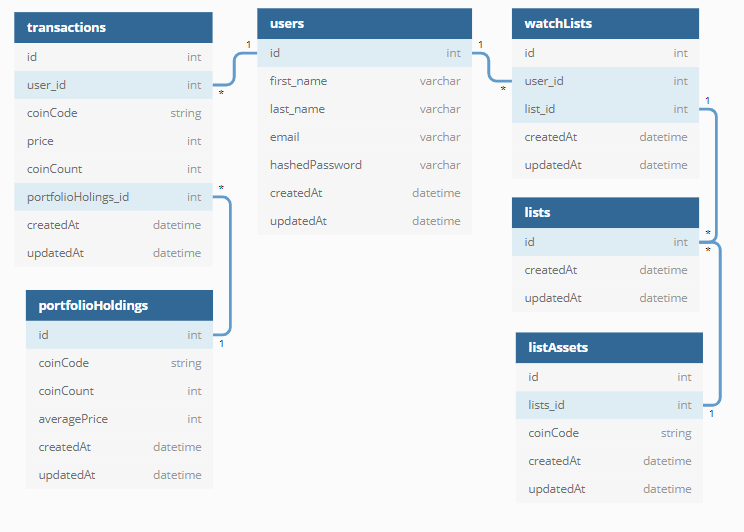
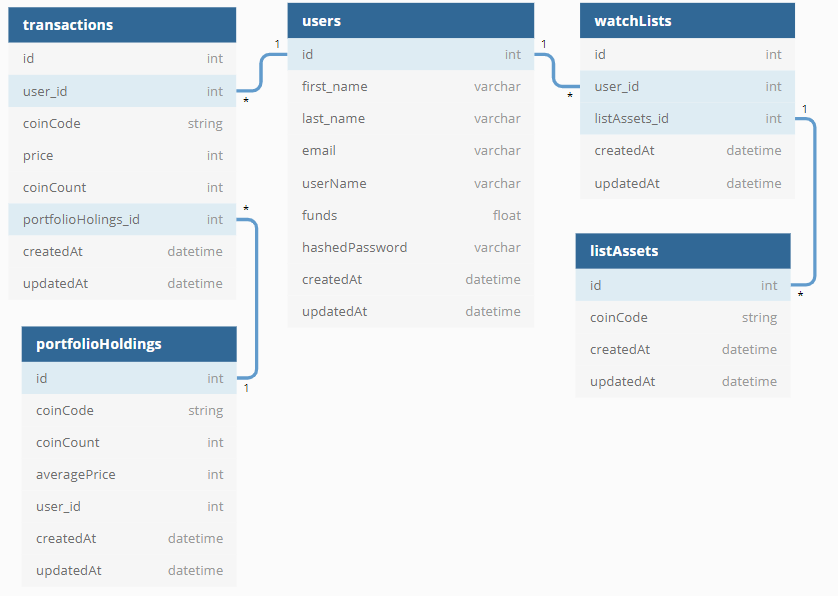
db schema

diff --git a/dbSchema.md b/dbSchema.md
@@ -1,0 +1,62 @@
+# `Users`
+
+| Column Name      | Data Type | Details               | Description           |
+| ---------------- | --------- | --------------------- | --------------------- |
+| `id`             | integer   | not null, primary key | Users unique id       |
+| `first_name`     | string    | not null              | Users first name      |
+| `last_name`      | string    | not null              | Users last name       |
+| `funds`          | float     | not null, default 0.0 | Users available funds |
+| `email`          | string    | not null, unique      | Users email           |
+| `username`       | string    | not null, unique      | Users username        |
+| `hashedPassword` | string    | not null              | Users hashed password |
+| `createdAt`      | datetime  | not null              | timestamp             |
+| `updatedAt`      | datetime  | not null              | timestamp             |
+
+# `WatchLists`
+
+| Column Name     | Data Type | Details               | Description                              |
+| --------------- | --------- | --------------------- | ---------------------------------------- |
+| `id`            | integer   | not null, primary key | Watchlists unique id                     |
+| `user_id`       | integer   | not null, foreign key | User that the watchlist belongs to       |
+| `listAssets_id` | integer   | not null, foreign key | Coin that belongs to the users watchlist |
+| `createdAt`     | datetime  | not null              | timestamp                                |
+| `updatedAt`     | datetime  | not null              | timestamp                                |
+
+# `ListAssets`
+
+| Column Name | Data Type | Details               | Description            |
+| ----------- | --------- | --------------------- | ---------------------- |
+| `id`        | integer   | not null, primary key | ListAssets unique id   |
+| `coinCode`  | string    | not null              | Coin code of the asset |
+| `createdAt` | datetime  | not null              | timestamp              |
+| `updatedAt` | datetime  | not null              | timestamp              |
+
+# `Transactions`
+
+| Column Name            | Data Type | Details               | Description                              |
+| ---------------------- | --------- | --------------------- | ---------------------------------------- |
+| `id`                   | integer   | not null, primary key | Transactions unique id                   |
+| `user_id`              | integer   | not null, foreign key | User that that transaction belongs to    |
+| `coinCode`             | string    | not null              | Coin code of the asset                   |
+| `price`                | integer   | not null              | Price of the coin at time of transaction |
+| `coinCount`            | integer   | not null              | How many coins were traded/bought/sold   |
+| `portfolioHoldings_id` | integer   | not null, foreign key | What portfolio does the asset belong to  |
+| `createdAt`            | datetime  | not null              | timestamp                                |
+| `updatedAt`            | datetime  | not null              | timestamp                                |
+
+# `PortfolioHoldings`
+
+| Column Name    | Data Type | Details               | Description                           |
+| -------------- | --------- | --------------------- | ------------------------------------- |
+| `id`           | integer   | not null, primary key | PortfolioHoldings unique id           |
+| `user_id`      | integer   | not null, foreign key | User that that transaction belongs to |
+| `coinCode`     | string    | not null, unique      | Coin code of the asset                |
+| `coinCount`    | integer   | not null              | How many of one coin is held          |
+| `averagePrice` | integer   | not null              | Average cost of coin purchase         |
+| `averagePrice` | integer   | not null              | Average cost of coin purchase         |
+| `createdAt`    | datetime  | not null              | timestamp                             |
+| `updatedAt`    | datetime  | not null              | timestamp                             |
+
+
+<br></br>
+<img src="frontend/public/images/db_schema.PNG" alt="Logo" width="" height="">
